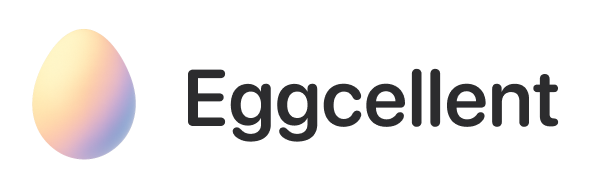
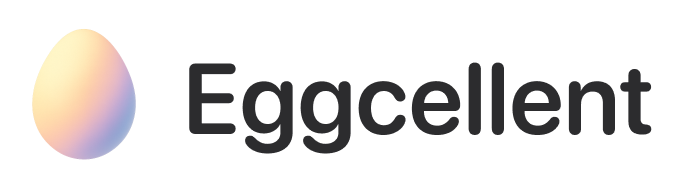
Update GoogleLogin UI and image asset
Commented out the loading spinner in GoogleLogin and removed the rounded-md class from the sign-in button for a cleaner look. Updated image.png in the public directory.

Changed region(s): [[0.2714, 0.3061, 0.9347, 0.7959], [0.0302, 0.1224, 0.2412, 0.8265]]

diff --git a/src/components/GoogleLogin.tsx b/src/components/GoogleLogin.tsx
@@ -42,7 +42,7 @@ export default function GoogleLogin() {
 	if (loading) {
 		return (
 			<div className="flex items-center gap-2 text-secondary">
-				<div className="w-5 h-5 border-1 border-neutral border-t-transparent rounded-full animate-spin"></div>
+				{/* <div className="w-5 h-5 border-1 border-neutral border-t-transparent rounded-full animate-spin"></div> */}
 				<span className="hidden sm:inline">Loading...</span>
 			</div>
 		)
@@ -100,7 +100,7 @@ export default function GoogleLogin() {
 			)}
 			<button
 				onClick={handleSignIn}
-				className="flex items-center gap-2 text-primary px-4 py-2 font-medium transition-colors border border-neutral rounded-md hover:bg-primary hover:text-white"
+				className="flex items-center gap-2 text-primary px-4 py-2 font-medium transition-colors border border-neutral hover:bg-primary hover:text-white"
 			>
 				<svg className="w-5 h-5" viewBox="0 0 24 24">
 					<path
